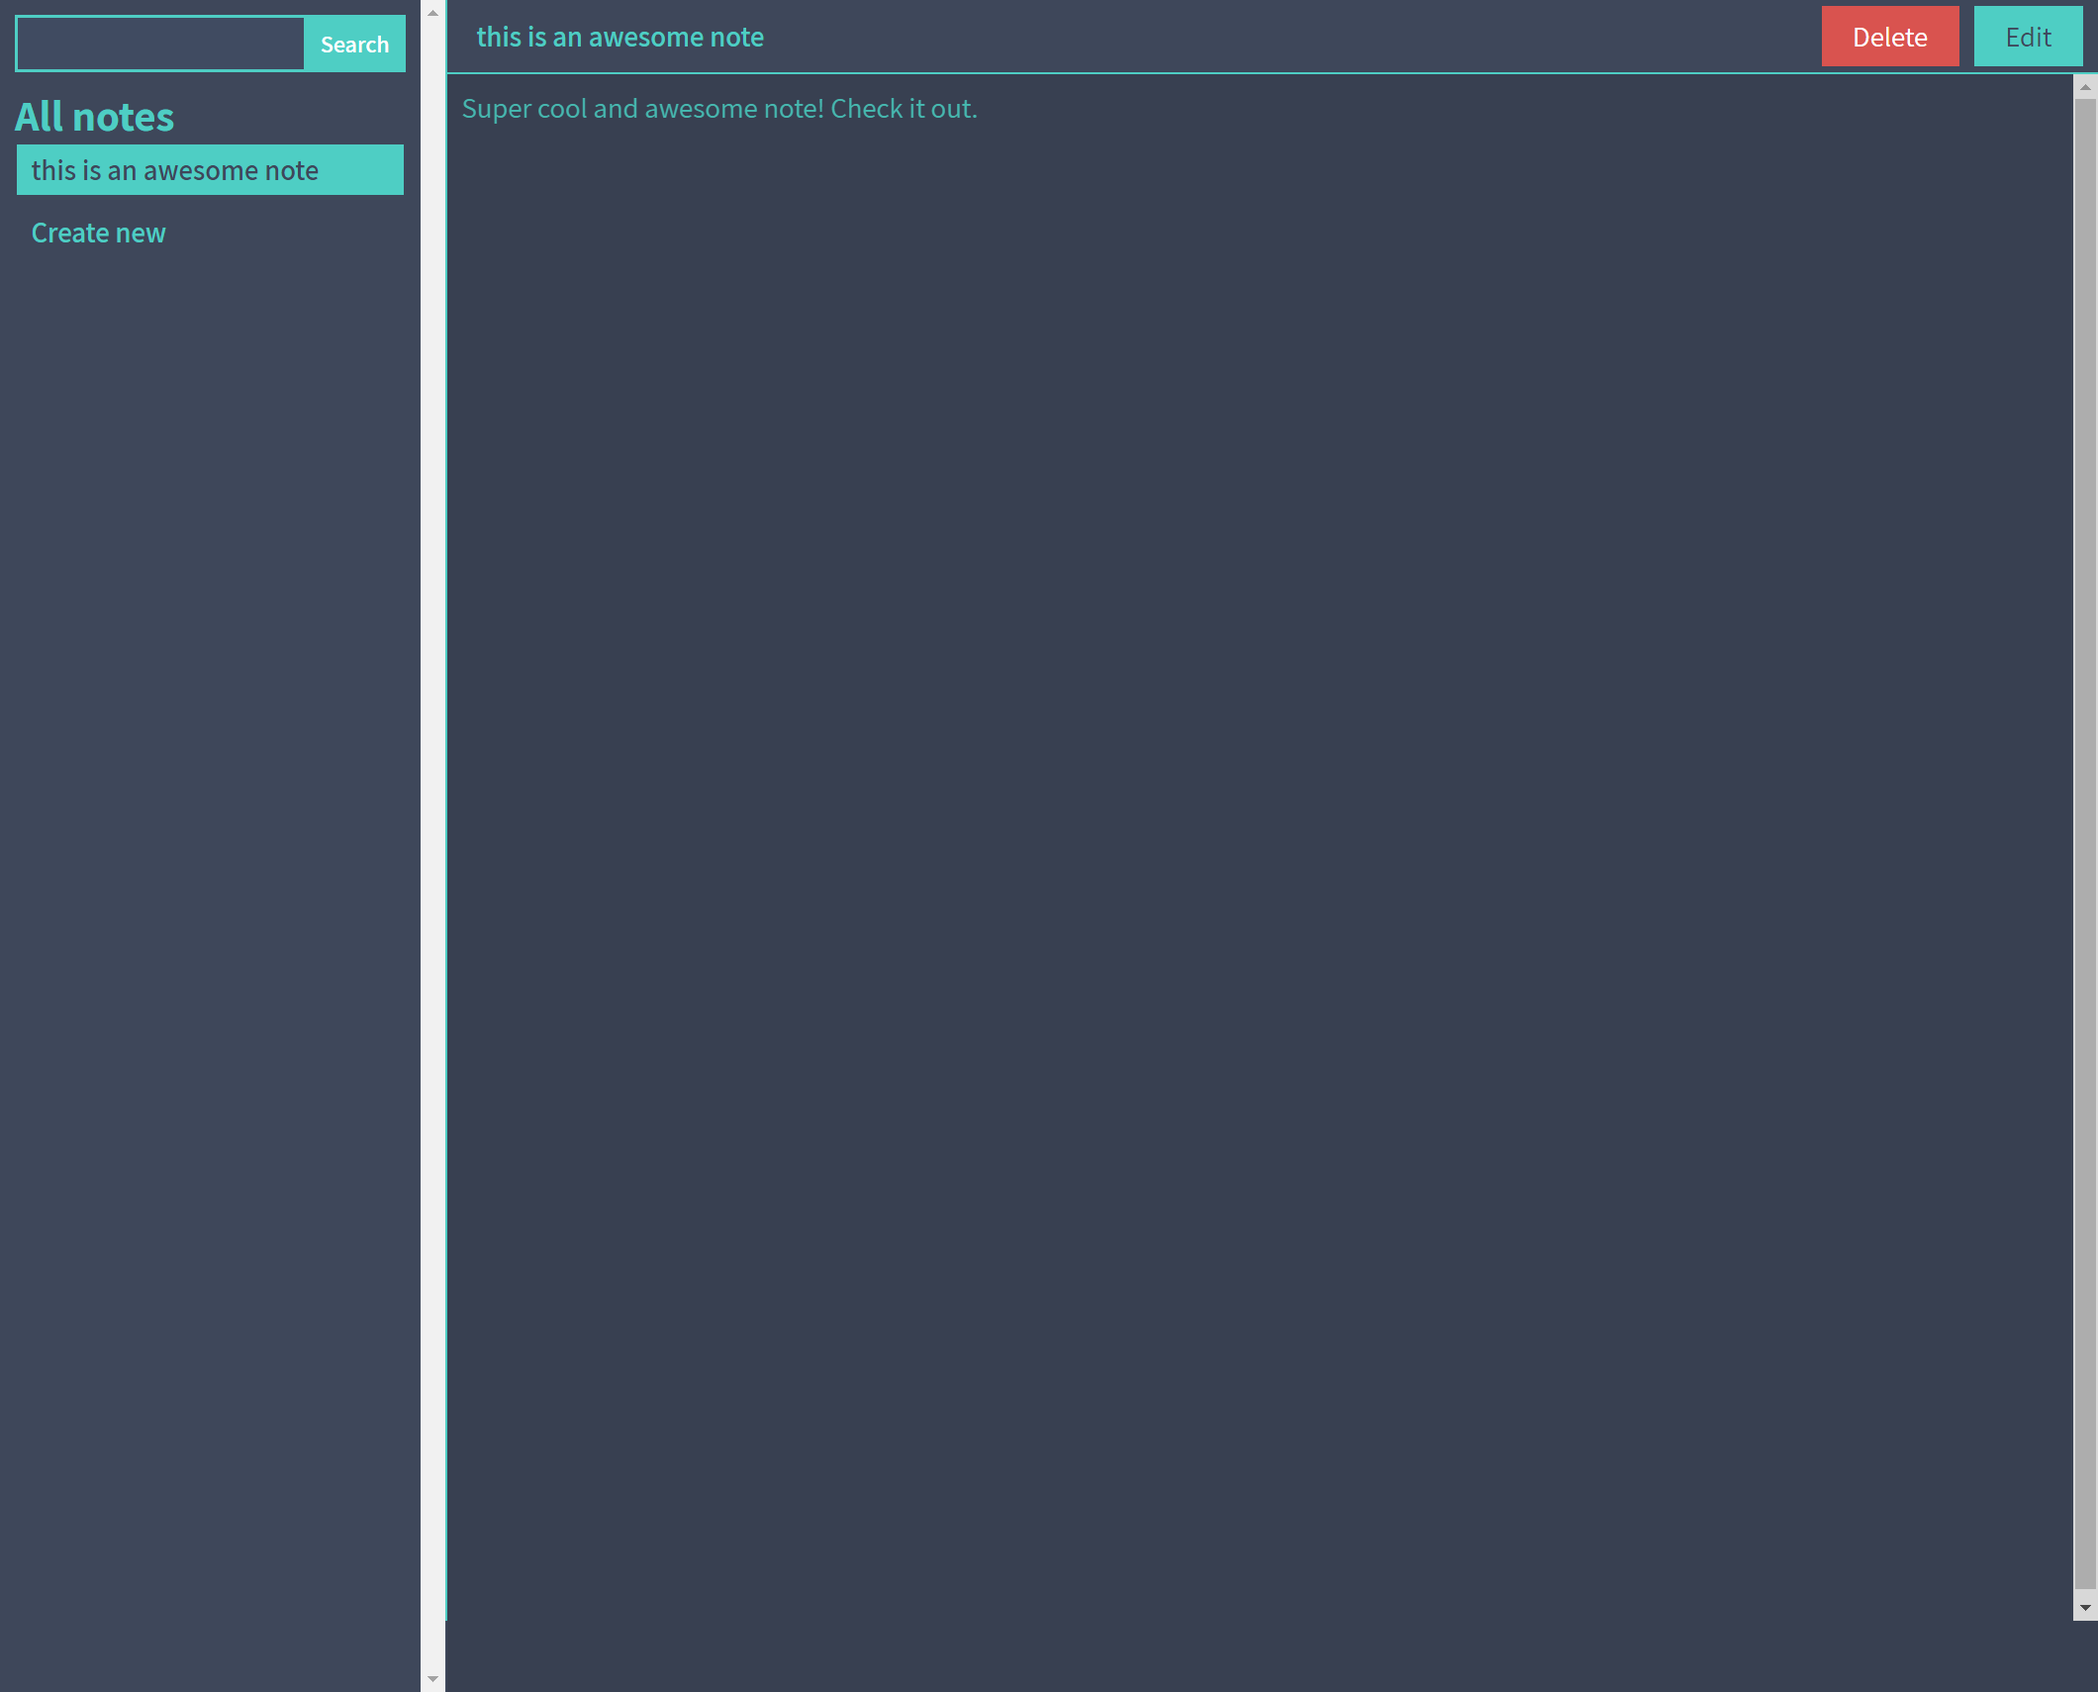
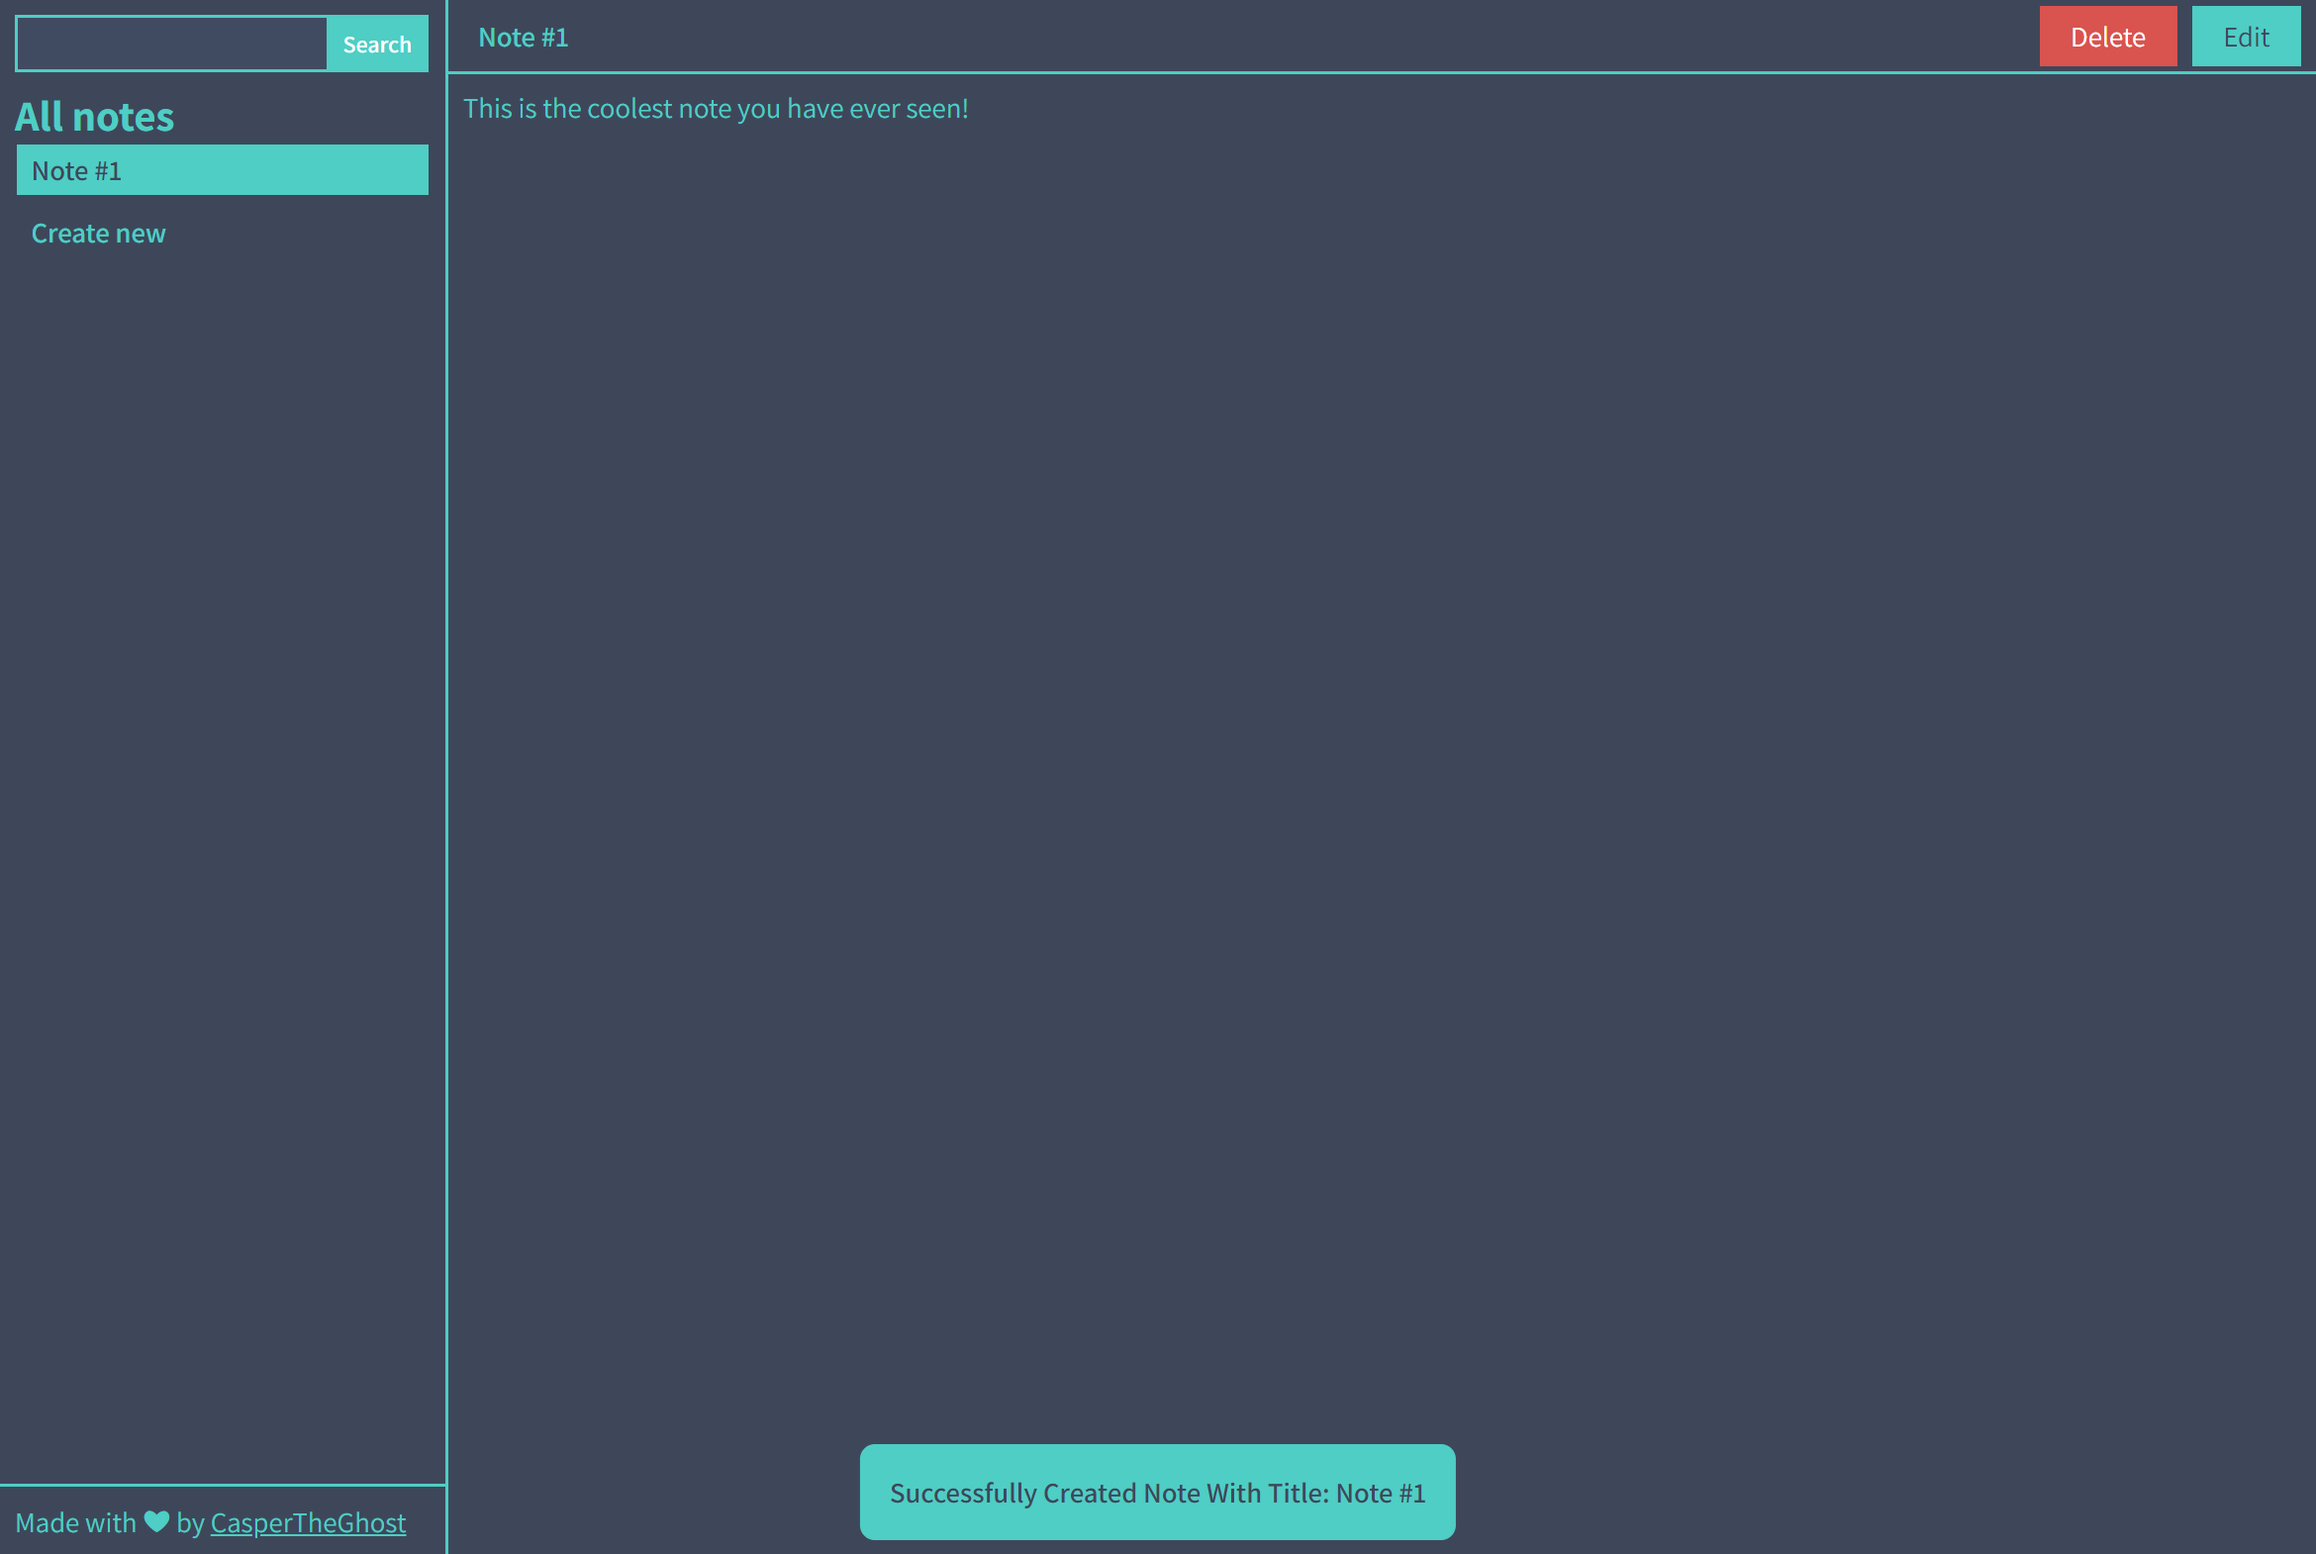
:tada: Fixed small bugs and updated README

Changed region(s): [[0.0, 0.0, 1.0, 1.0], [0.3736, 0.9051, 0.6538, 0.9987]]

diff --git a/client/src/components/sidebar/Sidebar.jsx b/client/src/components/sidebar/Sidebar.jsx
@@ -19,7 +19,7 @@ const Sidebar = ({ notes, activeNote, loading, getActiveNote }) => {
   const [filteredNotes, setFilteredNotes] = useState(notes);
 
   const filterNotes = (filter) => {
-    if (filter === "") return setFilteredNotes(notes)
+    if (filter === "") return setFilteredNotes(notes);
     setFilteredNotes(
       filteredNotes.filter((note) => {
         return note.title.includes(filter);
@@ -32,7 +32,6 @@ const Sidebar = ({ notes, activeNote, loading, getActiveNote }) => {
       setFilteredNotes(notes);
     }
   }, [notes, setFilteredNotes]);
-
 
   const createNew = () => {
     document.querySelector("#createNoteModal").classList.add("active");
@@ -87,6 +86,14 @@ const Sidebar = ({ notes, activeNote, loading, getActiveNote }) => {
               href="https://caspertheghost.me"
             >
               CasperTheGhost
+            </a>{" "}
+            on{" "}
+            <a
+              target="_blank"
+              rel="noreferrer noopener"
+              href="https://github.com/dev-caspertheghost/notey.app"
+            >
+              Github
             </a>
           </SidebarFooter>
         </SidebarFooterBg>

diff --git a/client/src/styles/Sidebar.jsx b/client/src/styles/Sidebar.jsx
@@ -161,6 +161,7 @@ export const SidebarFooter = styled.div`
   border-top: 2px solid ${GREEN};
   color: ${GREEN};
   font-size: 1.2rem;
+  text-align: center;
 
   & a {
     color: ${GREEN};

diff --git a/README.md b/README.md
@@ -1,6 +1,26 @@
-# Notey.app
+# 📝 Notey.app
 
-Simple notes app to keep track of important things (WIP)
+Simple notes app to keep track of important things
+
+## Screenshots
+
+<details>
+    <summary>View screenshots</summary>
+
+## Sign in & Register
+
+![signin](./docs/screens/signin.png)
+![register](./docs/screens/register.png)
+
+## Create note modal
+
+![Create note](./docs/screens/create-note.png)
+
+## Main app
+
+![main](./docs/screens/main-app.png)
+
+</details>
 
 ## Docs
 

diff --git a/docs/README.md b/docs/README.md
@@ -1,6 +1,5 @@
 # Documentation
 
-- [Screenshots](./SCREENSHOTS.md)
 - [Contributing](./CONTRIBUTING.md)
 
 ##
